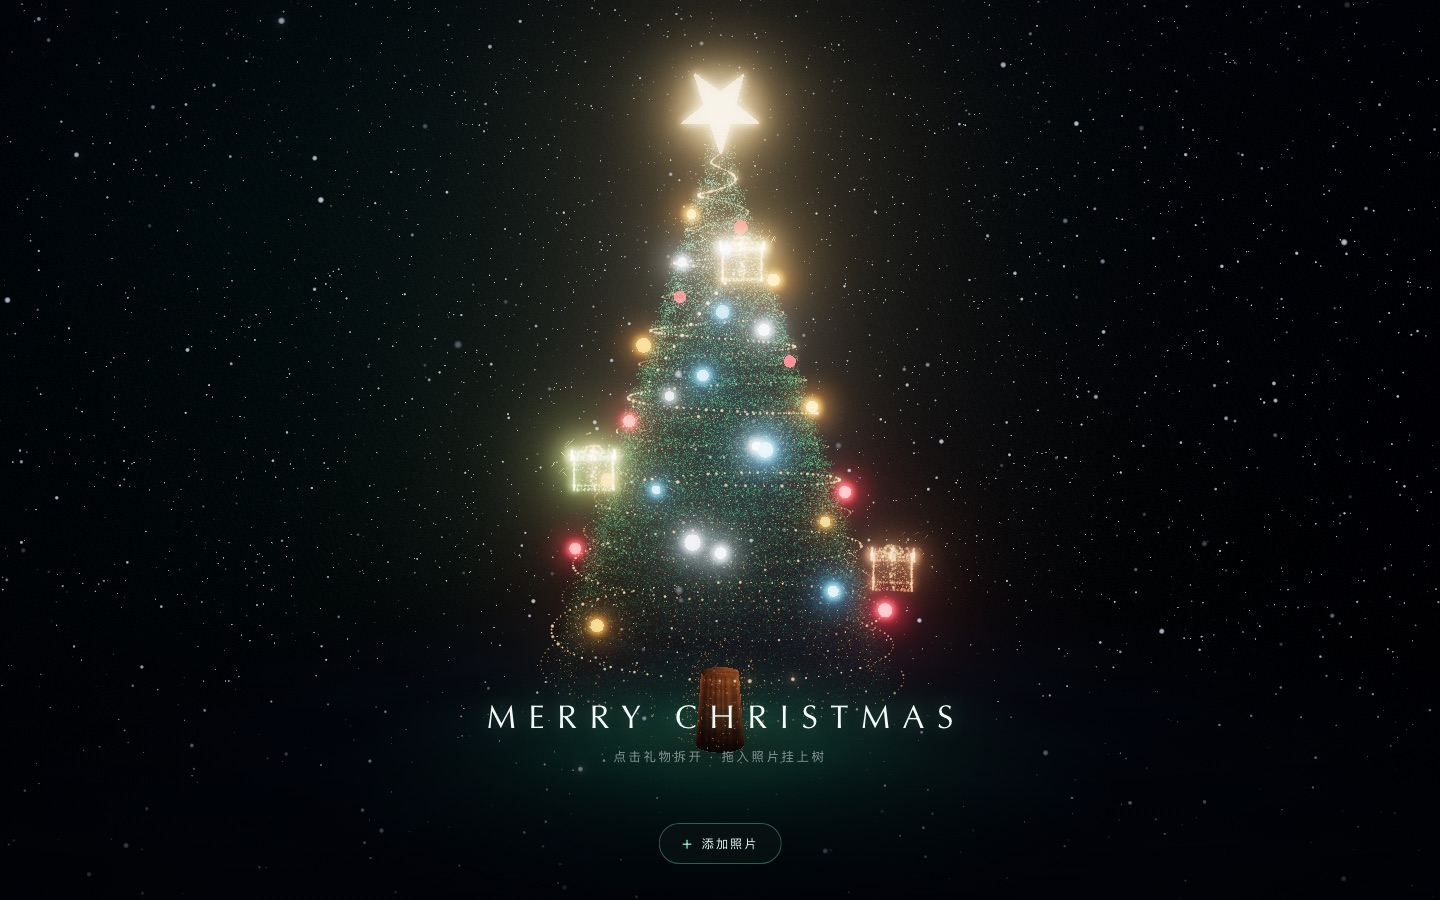
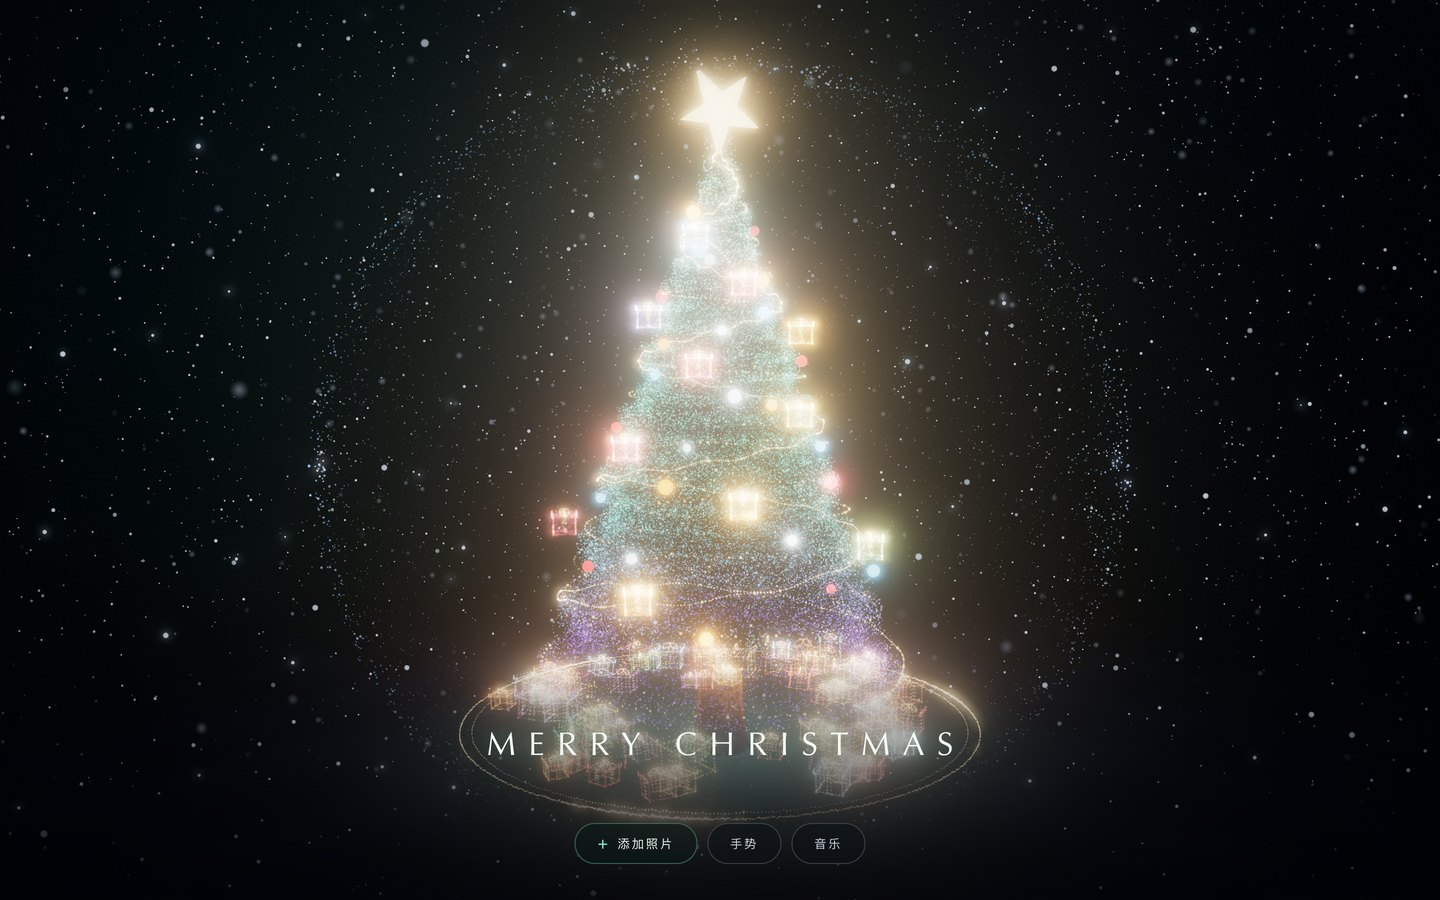
docs: 补「部署与分享」，并换掉过期的预览图
README 里一直没有回答"这东西怎么发给别人"，现在补一节：

- 托管：GitHub Pages，免费永久，不需要开着电脑。限额（1GB / 100GB 月）、
  仓库必须公开、push 后 1–2 分钟才生效，这些都写清楚了
- 分享的坑：照片存本机 IndexedDB，**从来没上传过**，所以链接带不走照片。
  别人打开看到的是默认祝福卡；换手机、换浏览器、清数据也都没有
- 三种发法对比：直接发链接 / 链接让对方自己传 / 单文件 HTML（后者要打包，
  体积约 3MB，手势那 17MB 模型打不进去）

预览图是 11 月 24 日的，还在展示"绿色没有圆台没有礼物堆"的旧版本，
和正文完全对不上。重新拍：
- preview-desktop：当前桌面全景
- preview-gallery：新加的"捏合看照片"（顺带拍到两颗流星）
- preview-mobile：竖屏，等雪橇飞过之后再拍，不糊
- 删掉 preview-gift：那张对应的是已经改过的拆礼物形态

路线图补了看照片 / 光晕重做两项；技术说明补了泛光阈值与 ?nodegrade=1 那条坑。

diff --git a/README.md b/README.md
@@ -2,17 +2,19 @@
 
 一棵完全由粒子点亮的圣诞树。它不是一段视频，而是一个可以拖拽旋转、把照片挂上树梢的实时三维场景。
 
-![悬停礼物时的效果](docs/preview-desktop.jpg)
+![桌面版](docs/preview-desktop.jpg)
 
-<sub>悬停礼物：放大、盒盖微翘、周围洒出粒子</sub>
+<sub>桌面：三色渐变的树、圆台上铺满的礼物堆、环绕整棵树的光晕（能看出弧，但没有一条封死的边）</sub>
 
-![拆开礼物](docs/preview-gift.jpg)
+![看照片](docs/preview-gallery.jpg)
 
-<sub>拆开礼物：盒盖弹开、盒内透光、粒子炸开</sub>
+<sub>握拳 → 张开 → 捏合：粒子收成一道金色光框，把照片（或这张祝福卡）托在中间；再捏一下换下一张</sub>
 
 <p align="center">
   <img src="docs/preview-mobile.jpg" width="280" alt="竖屏预览" />
 </p>
+
+<sub>竖屏：整棵树完整入镜，按钮在底部</sub>
 
 ## 效果
 
@@ -189,6 +191,45 @@ python3 -m http.server 8123
 
 > 直接双击 `index.html` 用 `file://` 打开会失败：ES module 与 `importmap` 在 `file://` 下受浏览器限制，必须走 HTTP。
 
+## 部署与分享
+
+线上版本：<https://hanfandada.github.io/christmas-tree/>
+
+### 托管
+
+跑在 **GitHub Pages** 上，不需要任何服务器，也不用你开着电脑——页面由 GitHub 的机器发出去，你关机、断网、换电脑都不影响（只有删掉仓库或关掉 Pages 才会失效）。
+
+- **免费，永久**：公开仓库的 Pages 不收钱。限额是发布内容 ≤ 1GB、流量 ≤ 100GB/月
+  - 本仓库现在 13MB，一次访问约 2–3MB，够几万人次
+- 唯一的「成本」是仓库必须**公开**（现在就是 `public`）：源码和网址都是公开的
+- 更新就是 `git push`。Pages 有缓存，线上大约 **1–2 分钟**后才看得到新版本；新建的文件在这之前会 404
+
+### 分享时最容易踩的坑：照片带不走
+
+照片**从来没有离开过你的浏览器**：
+
+```
+选图 → 浏览器里缩到长边 1024 → JPEG 存进本机 IndexedDB（库名 xmas-tree）
+```
+
+没有后端、没有上传接口。所以：
+
+- 别人打开链接，树、光晕、手势、雪橇、音乐全都在，但**拆礼物出来是默认祝福卡**——你加的照片一张都没有
+- 反过来也一样：你在电脑上加的照片，**用手机打开同一条链接也没有**；换浏览器、清浏览器数据都会没有
+- 也正因为不上传，照片没有任何泄露风险，连仓库所有者（部署的人）也看不到
+
+想让对方看到**你加的那些照片**，只能把照片打包进文件里（base64 内嵌的单文件 HTML）。这一条和「不上传」是互斥的，二选一——见路线图。
+
+### 三种发法
+
+| 做法 | 对方看到什么 | 需要做什么 |
+| --- | --- | --- |
+| 直接发链接 | 一棵完整但没有你照片的树 | 零 |
+| 链接 + 让对方自己传照片 | 同上，但对方也能把自己的照片挂上去 | 零 |
+| 单文件 `.html` | 双击就开，你加的照片全在里面 | 要一次打包（见路线图，未做） |
+
+单文件版的实际体积：`js` 352K + `three.js` 2.3M + 雪橇模型 260K + 每张照片 150–250K，**带 6 张照片约 3MB**。手势那 17MB 的模型不会打进去（否则 20MB+ 发不出去），也就是单文件版没有摄像头手势，其余全在。
+
 ## 目录结构
 
 ```
@@ -273,6 +314,9 @@ vendor/mediapipe/   手部关键点模型与 wasm（17MB，按需加载）
 - [x] 背景音乐开关（Web Audio 合成，无版权素材）
 - [x] 组合技：握拳张开炸开整棵树，再握一拳拼成 Merry Christmas
 - [x] 手势提速：推理输入缩到 320（256 真机丢手，已退回；ROI 默认关）
+- [x] 看照片：组合技第三段岔路，捏合 → 环绕照片的一圈暖金光框，再捏换一张，手放下慢慢散回树
+- [x] 水晶球光晕：去掉那条干净的光边，改成断开的掠射亮边 + 经纬网格，有体积但不兜成一个球
+- [ ] 单文件 HTML 导出：把照片 base64 内嵌，双击即可打开、微信可发（和「照片不上传」互斥，二选一）
 - [ ] 更多彩蛋与文案模板
 
 ## 技术说明
@@ -284,7 +328,8 @@ vendor/mediapipe/   手部关键点模型与 wasm（17MB，按需加载）
 - 组合技的粒子在顶点着色器里按 `uProgress` 在三组位置之间插值（树形 / 乱窜 / 文字），CPU 每帧只更新几个 uniform
 - 音乐全部由 `OscillatorNode` 现场合成，可以通过 `OfflineAudioContext` 离线渲染出来验证波形
 - 手势用 [MediaPipe Tasks Vision](https://ai.google.dev/edge/mediapipe/solutions/vision/hand_landmarker) 的 `HandLandmarker`，模型与 wasm 内嵌在 `vendor/mediapipe/`
-- 后期使用 `UnrealBloomPass` + `OutputPass`
+- 后期使用 `UnrealBloomPass` + `OutputPass`。泛光阈值是 0.45，而照片里只要有天空/白墙/雪地，整块都在阈值以上，泛光会把照片自己模糊一遍再叠回去——所以看照片时 `strength` 收到 4%
+- `?nodegrade=1` 关掉自动降档。无头浏览器帧率低，5 秒后自动降档会把泛光一起关掉，截图就永远复现不了真机上的画面（线上「照片过曝」这个问题就是这么漏掉好几轮的）
 
 ## 许可
 
